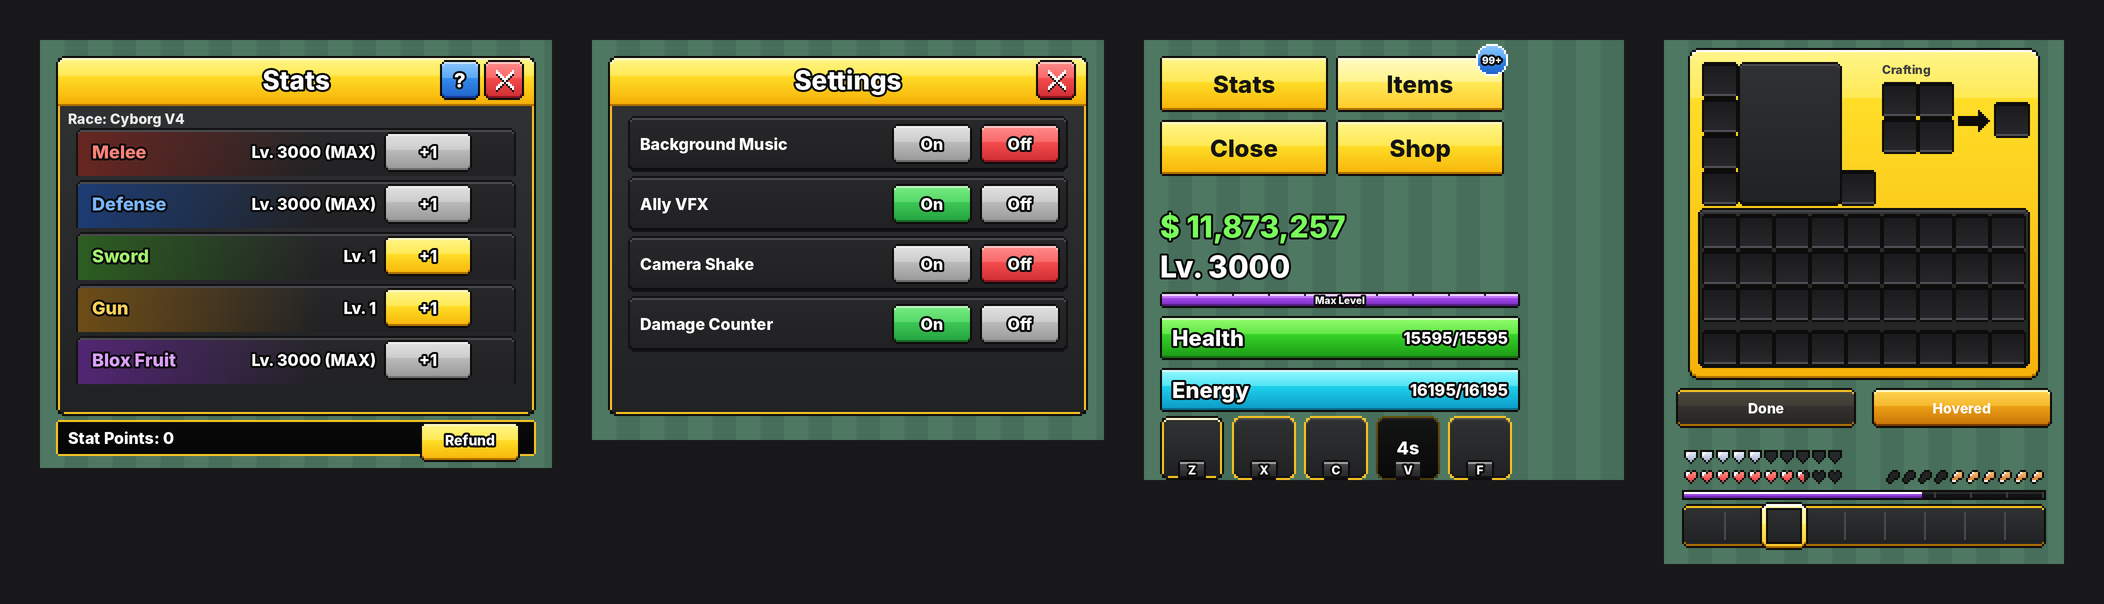
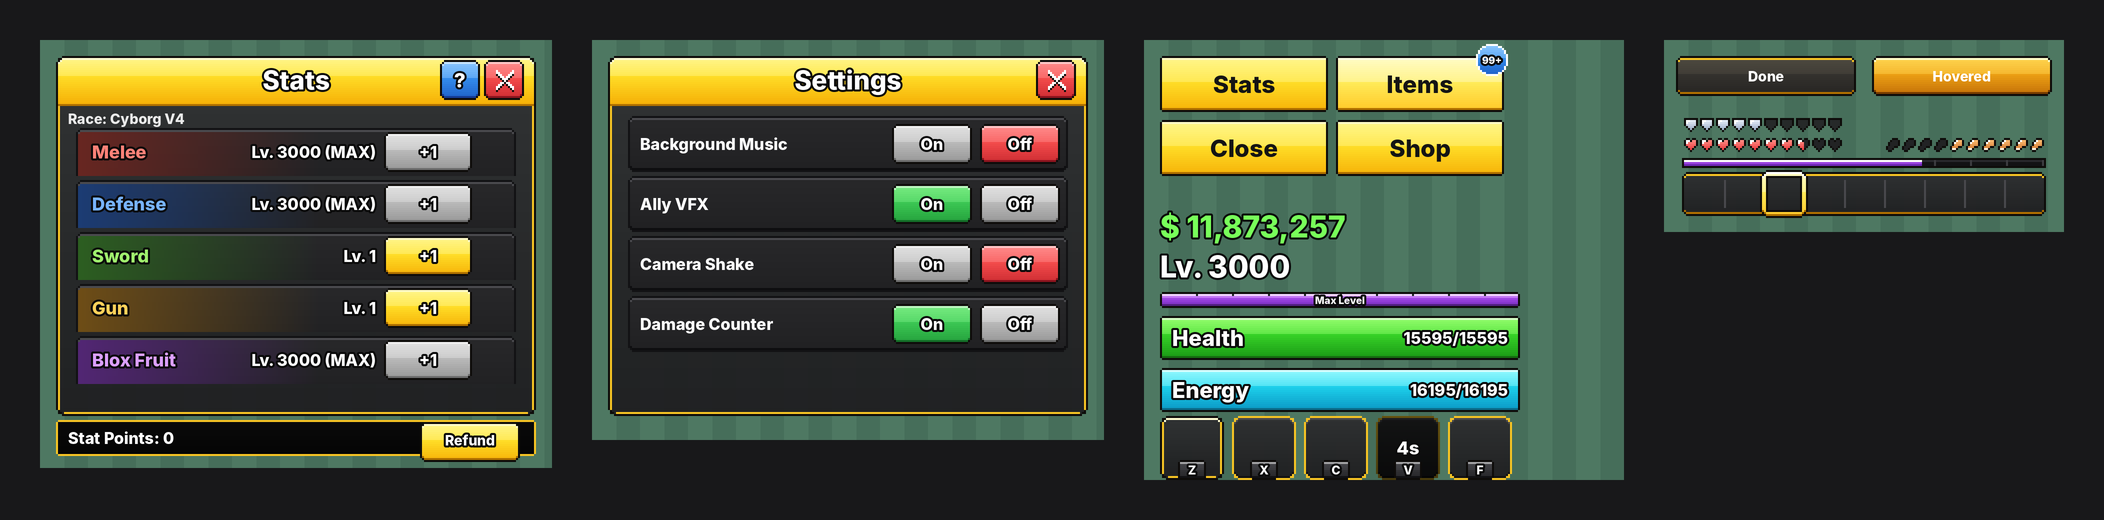
Leave vanilla inventory/chest/crafting screens unchanged
The yellow container retexture was too intense.

Claude-Session: https://claude.ai/code/session_01F629roJ3UentAcLxKhK2EH

diff --git a/tools/preview.py b/tools/preview.py
@@ -130,11 +130,9 @@ def hud():
 
 
 def vanilla():
-    w, ic, inv = tex(V + "widgets.png"), tex(V + "icons.png"), tex(V + "container/inventory.png")
-    img = bg(200, 262)
-    put(img, crop(inv, 0, 0, 176, 166), 12, 4)
-    text(img, 12 + 97, 4 + 7, "Crafting", 6, fill=(64, 64, 64), outline=False)
-    y = 232
+    w, ic = tex(V + "widgets.png"), tex(V + "icons.png")
+    img = bg(200, 96)
+    y = 66
     put(img, crop(w, 0, 0, 182, 22), 9, y)
     put(img, crop(w, 0, 22, 24, 24), 9 - 1 + 2 * 20, y - 1)
     put(img, crop(ic, 0, 64, 182, 5), 9, y - 7)
@@ -145,10 +143,10 @@ def vanilla():
         put(img, crop(ic, 16, 27, 9, 9), 182 + 9 - 9 - k * 8, y - 18)
         put(img, crop(ic, 52 if k < 6 else 16, 27, 9, 9), 182 + 9 - 9 - k * 8, y - 18)
         put(img, crop(ic, 34 if k < 5 else 16, 9, 9, 9), 9 + k * 8, y - 28)
-    put(img, stretch(crop(w, 0, 66, 200, 20), 90), 6, 174)
-    put(img, stretch(crop(w, 0, 86, 200, 20), 90), 104, 174)
-    text(img, 51, 184, "Done", 7, anchor="mm", outline=False)
-    text(img, 149, 184, "Hovered", 7, anchor="mm", outline=False)
+    put(img, stretch(crop(w, 0, 66, 200, 20), 90), 6, 8)
+    put(img, stretch(crop(w, 0, 86, 200, 20), 90), 104, 8)
+    text(img, 51, 18, "Done", 7, anchor="mm", outline=False)
+    text(img, 149, 18, "Hovered", 7, anchor="mm", outline=False)
     return img
 
 

diff --git a/tools/build_pack.py b/tools/build_pack.py
@@ -533,7 +533,7 @@ def build_meta():
 def main():
     if os.path.exists(PACK):
         shutil.rmtree(PACK)
-    build_meta(); build_widgets(); build_icons(); build_controls(); build_containers(); build_mod()
+    build_meta(); build_widgets(); build_icons(); build_controls(); build_mod()  # containers left vanilla (too intense)
     os.makedirs(DIST, exist_ok=True)
     out = os.path.join(DIST, "MarshUI.zip")
     with zipfile.ZipFile(out, "w", zipfile.ZIP_DEFLATED) as z:

diff --git a/README.md b/README.md
@@ -24,7 +24,6 @@ All colours are in the `PALETTE` block at the top of `tools/build_pack.py`.
 | `gui/icons.png` | hearts (all variants + hardcore), armor, hunger, air, purple XP bar, jump bar |
 | `gui/slider.png`, `gui/checkbox.png` | settings controls |
 | `gui/options_background.png`, `light_dirt_background.png` | charcoal swirl menu background (replaces dirt) |
-| `gui/container/inventory.png`, `generic_54.png`, `crafting_table.png` | yellow frame, charcoal slot wells |
 
 ## Mod textures (`assets/<modid>/textures/gui/`)
 Your mod's HUD and screens draw these with `GuiGraphics.blit(texture, x, y, u, v, w, h)`.
